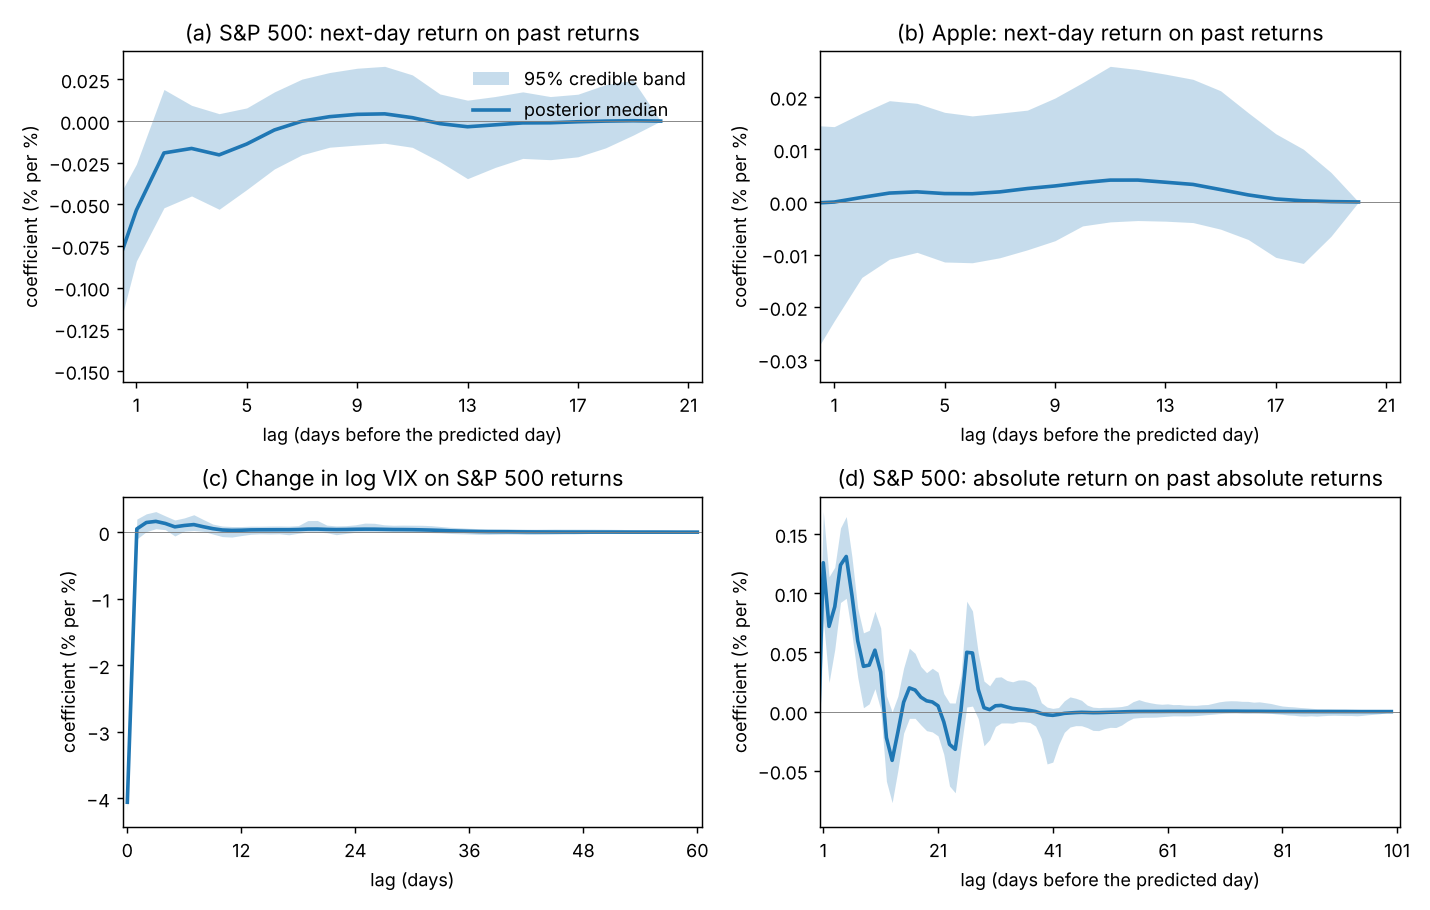
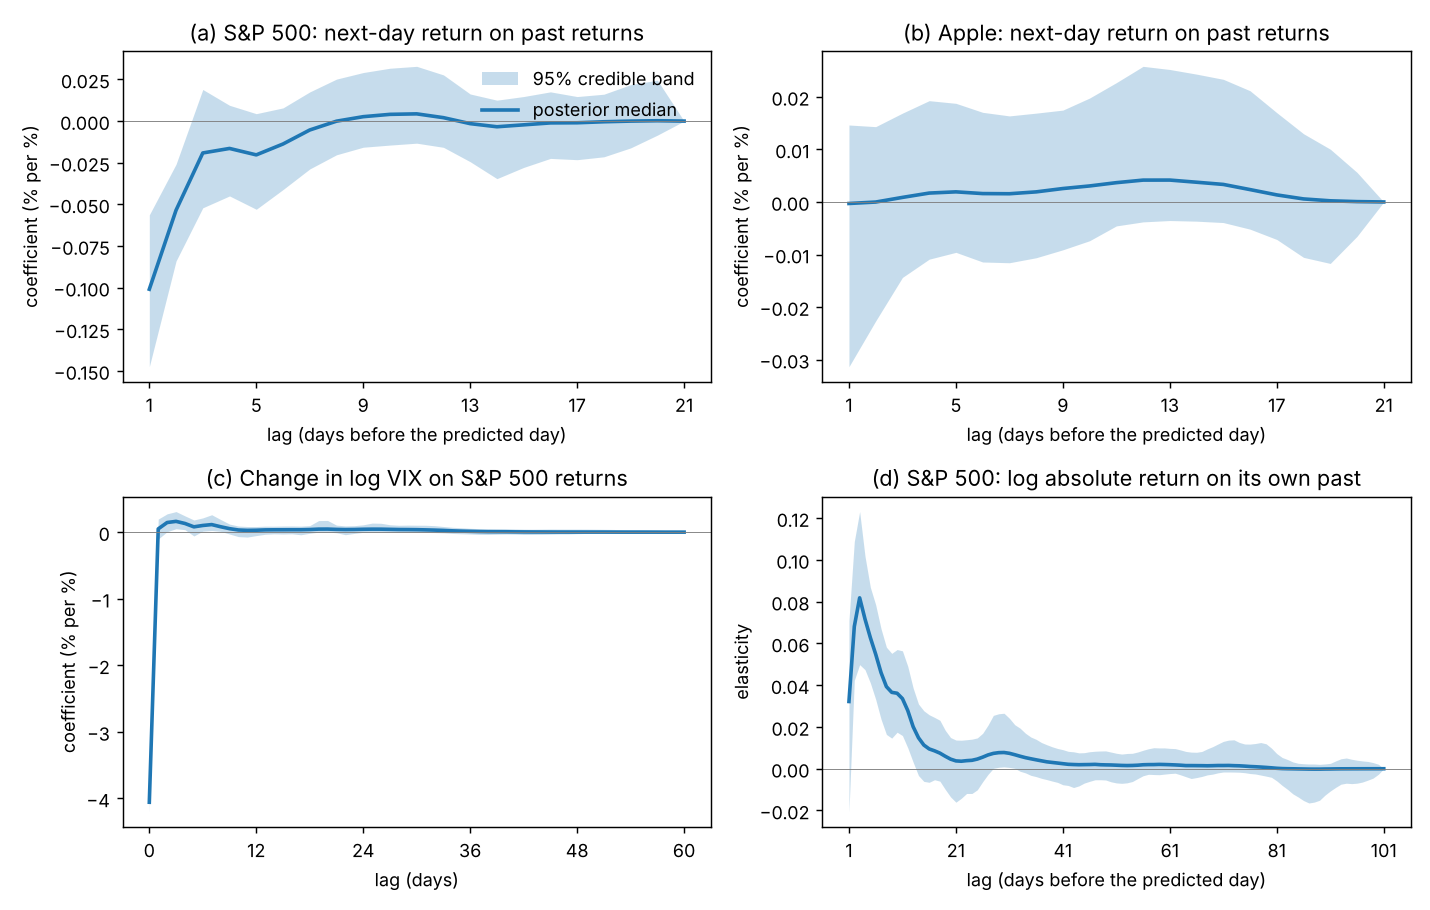
Fill stock market numbers and final figure into README and paper
Claude-Session: https://claude.ai/code/session_01FCP1GA5ohkeNxZEcP2VKqi

diff --git a/paper/badlm.tex b/paper/badlm.tex
@@ -463,20 +463,21 @@ for 2007 to 2016, 2,306 trading days spanning the 2008 crisis. Figure
 \ref{fig:stocks} shows four lag curves. Panels (a) and (b) regress the next
 day's return on the preceding 20 days' returns, the linear information that a
 trading rule could exploit. For the index the curve is negative at lag one,
-LAG1_A per percentage point, and returns to zero within a week: a short-lived
-reversal with cumulative effect CUM_A and ED_A effective degrees of freedom.
-For Apple the curve is indistinguishable from zero at every lag, with ED_B
+$-0.10$ (95\% interval $-0.15$ to $-0.06$) per percentage point, and returns to zero within a week: a short-lived
+reversal with cumulative effect $-0.23$ ($-0.42$ to $-0.03$) and 5.7 effective degrees of freedom.
+For Apple the curve is indistinguishable from zero at every lag, with 2.7
 effective degrees of freedom; the adaptive smoother reports an absence of
 structure rather than inventing it. Panel (c) regresses the daily change in
 log VIX on the same day's and the preceding 60 days' index returns. The
-contemporaneous coefficient is LAG0_C, so implied volatility rises about
-LAG0_C_ABS per cent for each percentage point the index falls; it is followed
+contemporaneous coefficient is $-4.1$ ($-4.2$ to $-3.9$), so implied volatility rises about
+4 per cent for each percentage point the index falls; it is followed
 by a small positive rebound over the following week as the shock partly
 reverses, and by nothing beyond about ten days. Panel (d) regresses the log
 absolute return, a measure of realised volatility, on its own past over 100
-days. The curve decays slowly and remains positive throughout, the long memory
-of volatility, and the smoother describes 100 lags with ED_D effective degrees
-of freedom. In each panel the band widens where the data are least informative
+days. The curve is strongest at lags two to three, decays over about a month
+and remains small but mostly positive thereafter, the long memory of
+volatility; the cumulative elasticity is 0.84 (0.75 to 0.94) and the smoother
+describes 100 lags with 8.9 effective degrees of freedom. In each panel the band widens where the data are least informative
 and the curve is pinned to zero at the maximum lag.
 
 \begin{figure}[t]

diff --git a/README.md b/README.md
@@ -133,18 +133,19 @@ settings:
 ![stock market lag curves](figures/stocks_lag_curves.png)
 
 - *(a)* Next-day S&P 500 return on the previous 20 days' returns: a short-lived
-  reversal, LAG1_A per percentage point at lag one and zero within a week, with
-  a cumulative effect of CUM_A and ED_A effective degrees of freedom.
-- *(b)* The same for Apple: indistinguishable from zero everywhere with ED_B
+  reversal, -0.10 (95% interval -0.15 to -0.06) per percentage point at lag one and zero within a week, with
+  a cumulative effect of -0.23 (-0.42 to -0.03) and 5.7 effective degrees of freedom.
+- *(b)* The same for Apple: indistinguishable from zero everywhere with 2.7
   effective degrees of freedom. The adaptive smoother reports an absence of
   structure rather than inventing it.
 - *(c)* Daily change in log VIX on the same day's and the previous 60 days' S&P
-  500 returns: implied volatility moves LAG0_C per cent for each percentage
-  point of index return on the day, rebounds slightly over the following week,
+  500 returns: implied volatility moves -4.1 (-4.2 to -3.9) per cent for each percentage
+  point of index return on the same day, rebounds slightly over the following week,
   and shows nothing beyond about ten days.
-- *(d)* Log absolute return on its own past over 100 days: the slow decay of
-  volatility clustering, positive throughout, described with ED_D effective
-  degrees of freedom.
+- *(d)* Log absolute return on its own past over 100 days: volatility
+  clustering, strongest at lags two to three, decaying over about a month and
+  small but mostly positive thereafter, with a cumulative elasticity of 0.84
+  (0.75 to 0.94) described by 8.9 effective degrees of freedom.
 
 **COVID-19 cases and deaths** (`python examples/covid.py [--negbin]`). Daily US
 deaths from June 2020 to March 2021 are regressed, on the log scale, on the
